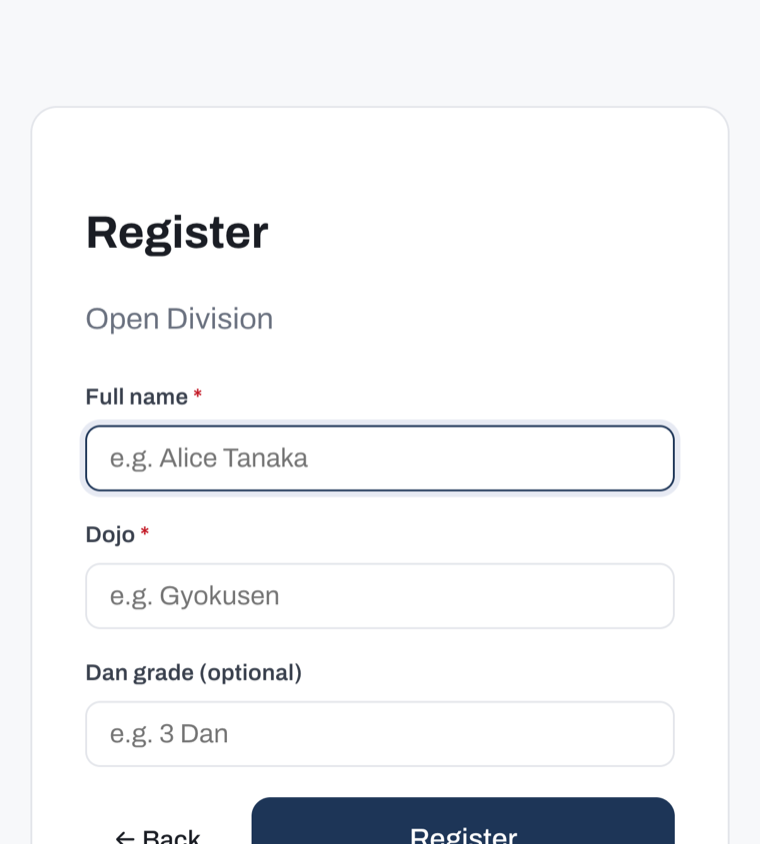
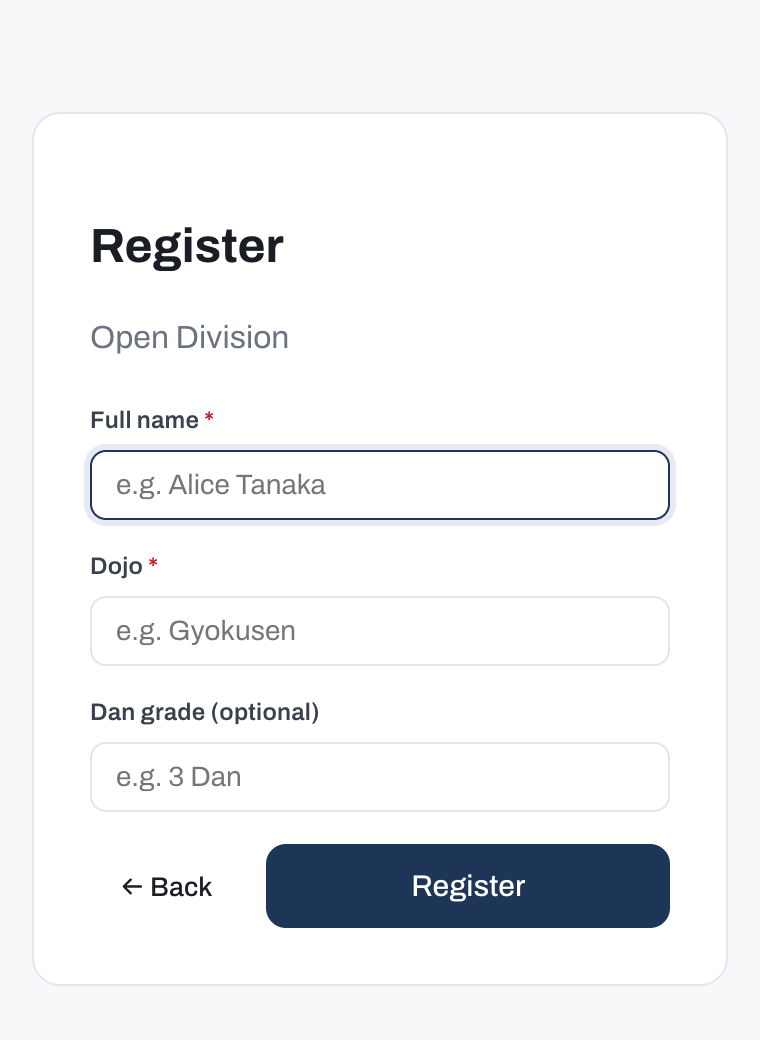
Merge pull request #349 from gitrgoliveira/claude/mobile-screenshots-scaling-aba379
fix(mp-9u6d): render docs phone screenshots at device scale, not full column

Pull request: fix(mp-9u6d): render docs phone screenshots at device scale, not full column
## Summary

- Phone screenshots on the docs site (public viewer, self-run registration) no longer stretch to the full content column; they render at phone scale (400px), centred, with a hairline frame, and collapse gracefully on narrow viewports.
- Every phone capture now sits in a `<figure>` with a visible caption naming the app screen, and prose is interleaved between the two stacked captures on the spectators page so they no longer read as one uncaptioned wall.
- Both looping GIFs (real-time update, draw generation) are replaced with click-to-play `<video controls>` MP4s: no autoplay, pausable (WCAG 2.2.2).
- Broken screenshot assets fixed: `selfrun-register.png` recaptured from a live self-run instance with the full Back/Register button row (the old capture sliced the CTA in half); `viewer-home.png` and `viewer-competition.png` cropped to end cleanly (sliced match card and commit-hash dev footer removed).
- Dark scheme: framed captures get a slate-only easing (transparent border + `brightness(0.92)`) since the hairline is invisible against a light capture on the dark page.

## Why
[…]

diff --git a/docs/assets/stylesheets/extra.css b/docs/assets/stylesheets/extra.css
@@ -375,6 +375,54 @@ html, body { overflow-x: clip; }
 	overflow-x: auto;
 }
 
+/* ===== Phone screenshots: render at device scale, not column width ===== */
+/* Portrait phone captures are saved at 2x; unconstrained they fill the whole
+ * content column and read as a wall. Tag them `{ .bc-phone }` (attr_list) to
+ * cap them near a real phone's logical width, centred, with a hairline frame
+ * so light UI chrome doesn't dissolve into the page surface. */
+.md-typeset img.bc-phone,
+.md-typeset video.bc-phone {
+	display: block;
+	/* Material's root font-size is 125% (1rem = 20px), so 20rem = 400px:
+	 * a large phone's logical width. */
+	max-width: min(20rem, 100%);
+	height: auto;
+	margin: 1em auto;
+	border: 1px solid var(--bc-line);
+	border-radius: var(--bc-radius);
+}
+
+/* On slate the hairline is invisible against a light capture and the white
+ * screenshot glares on the near-black page; drop the dead border and take
+ * the capture down a notch instead. */
+[data-md-color-scheme="slate"] .md-typeset img.bc-phone,
+[data-md-color-scheme="slate"] .md-typeset video.bc-phone {
+	border-color: transparent;
+	filter: brightness(0.92);
+}
+
+/* Any embedded video stays inside the content column (Material has no
+ * default video sizing). */
+.md-typeset video {
+	max-width: 100%;
+	height: auto;
+}
+
+/* Figure + caption around framed captures: the caption names which app
+ * screen the reader is looking at, so stacked screenshots stay skimmable. */
+.md-typeset figure.bc-fig {
+	display: block;
+	margin: 1.2em auto;
+	text-align: center;
+}
+.md-typeset figure.bc-fig > figcaption {
+	margin: 0.55em auto 0;
+	max-width: 26rem;
+	font-size: 0.72rem;
+	color: var(--md-default-fg-color--light);
+	text-wrap: pretty;
+}
+
 /* ===== Tabbed content: heavier labels. Material already colours the active
  * tab + its underline with --md-accent-fg-color (navy), so no active-state
  * rule is needed here. ===== */

diff --git a/docs/check_links.py b/docs/check_links.py
@@ -9,8 +9,10 @@ it validates exactly what ships. That catches two whole classes of breakage that
   ``overrides/404.html``) that strict-mode never validates, and
 * same-page ``#anchor`` links, which strict mode only logs as INFO.
 
-Every internal ``<a href>``, ``<img src>``, ``<script src>`` and ``<link href>``
-is resolved against the built tree and, when it carries a ``#fragment``, checked
+Every internal ``<a href>``, ``<img src>``, ``<script src>``, ``<link href>``,
+and media ``src`` (``<video>``, ``<audio>``, ``<source>``: raw-HTML embeds that
+MkDocs copies verbatim without path rewriting, so a wrong relative depth only
+shows up in the built tree) is resolved against the built tree and, when it carries a ``#fragment``, checked
 against the ``id`` attributes on the target page. External links
 (http, https, mailto, tel, ...) are deliberately not checked: network probes are
 flaky and do not belong in a build gate.
@@ -84,7 +86,7 @@ class Page(HTMLParser):
             self.ids.add(a["name"])
         if tag in ("a", "link") and a.get("href") is not None:
             self.links.append(a["href"])
-        elif tag in ("img", "script") and a.get("src") is not None:
+        elif tag in ("img", "script", "video", "audio", "source") and a.get("src") is not None:
             self.links.append(a["src"])
         if tag in ("img", "source") and a.get("srcset"):
             # srcset is a comma-separated list of "url [descriptor]" pairs.

diff --git a/docs/user-guide/spectators/following.md b/docs/user-guide/spectators/following.md
@@ -13,11 +13,17 @@ The viewer brings together everything you need to follow the day in one place:
 - Pool standings that update as scores are entered, with no page refresh needed.
 - The elimination bracket filling in as matches are completed.
 
+<figure class="bc-fig" markdown="span">
+  ![Public viewer on a phone: tournament header, a watchlist, the full schedule, and a card per competition tagged with its status.](../../screenshots/viewer-home.png){ .bc-phone }
+  <figcaption>The public home: the watchlist, the full schedule, and one card per competition.</figcaption>
+</figure>
+
 Tap a competition to drill into its schedule, standings, and bracket. Aka (red) and Shiro (white) sides are colour-coded throughout.
 
-![Public viewer on a phone: tournament header, a watchlist, the full schedule, and a card per competition tagged with its status.](../../screenshots/viewer-home.png)
-
-![A competition's public page: upcoming matches and recent results with waza-level scores.](../../screenshots/viewer-competition.png)
+<figure class="bc-fig" markdown="span">
+  ![A competition's public page: upcoming matches and recent results with waza-level scores.](../../screenshots/viewer-competition.png){ .bc-phone }
+  <figcaption>A competition's page: upcoming matches and recent results with waza-level scores.</figcaption>
+</figure>
 
 ## Scoreboards and court displays
 
@@ -46,7 +52,15 @@ When everything is healthy, no dot appears.
 
 Scores entered by the operator appear on the viewer immediately, across every connected device.
 
-![A scorer's result appears on the viewer in real time, with no refresh.](../../screenshots/realtime-update.gif)
+<!-- Raw HTML is copied verbatim by MkDocs (only markdown image paths get
+     rewritten), so this src must be relative to the BUILT page URL
+     (/user-guide/spectators/following/): three levels up, not two. -->
+<figure class="bc-fig">
+  <video class="bc-phone" controls loop muted playsinline preload="metadata" width="440" height="900" aria-label="A scorer's result appears on the viewer in real time, with no refresh.">
+    <source src="../../../screenshots/realtime-update.mp4" type="video/mp4">
+  </video>
+  <figcaption>A scorer's result appearing on the viewer in real time, with no refresh. Press play to watch.</figcaption>
+</figure>
 
 ## QR codes on competitor tags
 

diff --git a/docs/user-guide/competitors/self-run.md b/docs/user-guide/competitors/self-run.md
@@ -8,7 +8,10 @@ The steps on this page apply only to a self-run tournament. In an officiated tou
 
 When the tournament is self-run, a public self-registration page is open for individual competitions while they are still in setup, before the organiser generates the draw. Open the registration page on your own device and enter your details to join a competition.
 
-![The self-registration form on a phone: full name, dojo, and an optional dan grade, with a Register button.](../../screenshots/selfrun-register.png)
+<figure class="bc-fig" markdown="span">
+  ![The self-registration form on a phone: full name, dojo, and an optional dan grade, with a Register button.](../../screenshots/selfrun-register.png){ .bc-phone }
+  <figcaption>The public self-registration form: name, dojo, optional dan grade.</figcaption>
+</figure>
 
 !!! note
     Self-registration is not available for team competitions; the organiser adds the team roster directly. It also closes once the draw is generated. In an officiated tournament, the registration page is not available at all, and the organiser adds you to the competition directly.
@@ -27,4 +30,7 @@ Only everyday match outcomes are available to self-reporters. Decisions that req
 
 To track your progress, view the draw, and see standings, see [Following a tournament](../spectators/following.md).
 
-![The public home on a phone: the tournament header, a watchlist, the schedule, and a competition card with a Register for this competition button.](../../screenshots/selfrun-viewer-home.png)
+<figure class="bc-fig" markdown="span">
+  ![The public home on a phone: the tournament header, a watchlist, the schedule, and a competition card with a Register for this competition button.](../../screenshots/selfrun-viewer-home.png){ .bc-phone }
+  <figcaption>The public home in self-run mode: each open competition carries a Register button.</figcaption>
+</figure>

diff --git a/docs/user-guide/organisers/run-tournament.md b/docs/user-guide/organisers/run-tournament.md
@@ -132,7 +132,15 @@ You can still toggle individual check-in status during `draw-ready`, but roster 
 
 When the preview looks correct, click **Start competition** to move to match play. To make roster changes instead, click **Discard draw** to delete the draft and return to setup.
 
-![Generating the draw](../../screenshots/draw-generation.gif)
+<!-- Raw HTML is copied verbatim by MkDocs (only markdown image paths get
+     rewritten), so this src must be relative to the BUILT page URL
+     (/user-guide/organisers/run-tournament/): three levels up, not two. -->
+<figure class="bc-fig">
+  <video controls loop muted playsinline preload="metadata" width="900" height="580" aria-label="Generating the draw: the pools preview appears after clicking Generate draw.">
+    <source src="../../../screenshots/draw-generation.mp4" type="video/mp4">
+  </video>
+  <figcaption>Generating the draw. Press play to watch.</figcaption>
+</figure>
 
 ## Pools and bracket
 